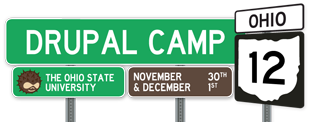
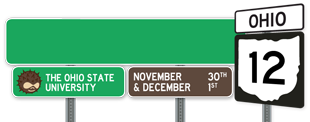
style title text

Changed region(s): [[0.0581, 0.2213, 0.7258, 0.4672]]

diff --git a/css/global.css b/css/global.css
@@ -310,14 +310,38 @@ filter: progid:DXImageTransform.Microsoft.gradient( startColorstr='#74b3db', end
 /**************************************************
 *** Header Zone
 **************************************************/
+#logo-text {
+	color: #fff;
+	text-transform: uppercase;
+	font-stretch: narrower;
+	font-size: 175%;
+	z-index: 99;
+	margin: 35px 0 0 15px;
+}
+#logo-text a {
+	color: #fff;
+	text-decoration: none;
+}
 #zone-header-wrapper {
   min-height: 110px; 
   background: url(images/header-mobile-320.png) no-repeat center top;
+  margin-top: -55px;
 }
 
 @media only screen 
 and (min-width : 321px) {
- #zone-header-wrapper {min-height: 165px; background: url(images/header-mobile-480.png) no-repeat center top;}
+   #zone-header-wrapper {
+     min-height: 165px; background: url(images/header-mobile-480.png) no-repeat center top;
+     margin-top: -82px;  
+   }
+   #logo-text {
+	color: #fff;
+	text-transform: uppercase;
+	font-stretch: narrower;
+	font-size: 260%;
+	z-index: 99;
+	margin: 50px 0 0 30px;
+  }
 }
 
 .region-preface-first,

diff --git a/css/dco-theme-12-alpha-default.css b/css/dco-theme-12-alpha-default.css
@@ -9,10 +9,14 @@ body {background: url(images/map-1000.jpg) no-repeat center bottom fixed;}
 /**************************************************
 *** Header Zone
 **************************************************/
-
+#logo-text {
+	font-size: 400%;
+	margin: 60px 0 0 45px;
+}
 #zone-header-wrapper {
   background: url(images/header-720.png) no-repeat center top;
   min-height: 330px;
+  margin-top: -113px;
 }
 #zone-header { margin-top: 10px; }
 

diff --git a/css/dco-theme-12-alpha-default-normal.css b/css/dco-theme-12-alpha-default-normal.css
@@ -25,9 +25,14 @@ and (min-width: 1620px) {
 /**************************************************
 *** Header Zone
 **************************************************/
+#logo-text {
+	font-size: 490%;
+	margin: 75px 0 0 90px;
+}
 #zone-header-wrapper {
   background: url(images/header-960.png) no-repeat center top;
   min-height: 440px;
+  margin-top: -142px;
 }
 .region-preface-first { /* sessions sign */
   margin-top: -235px;
